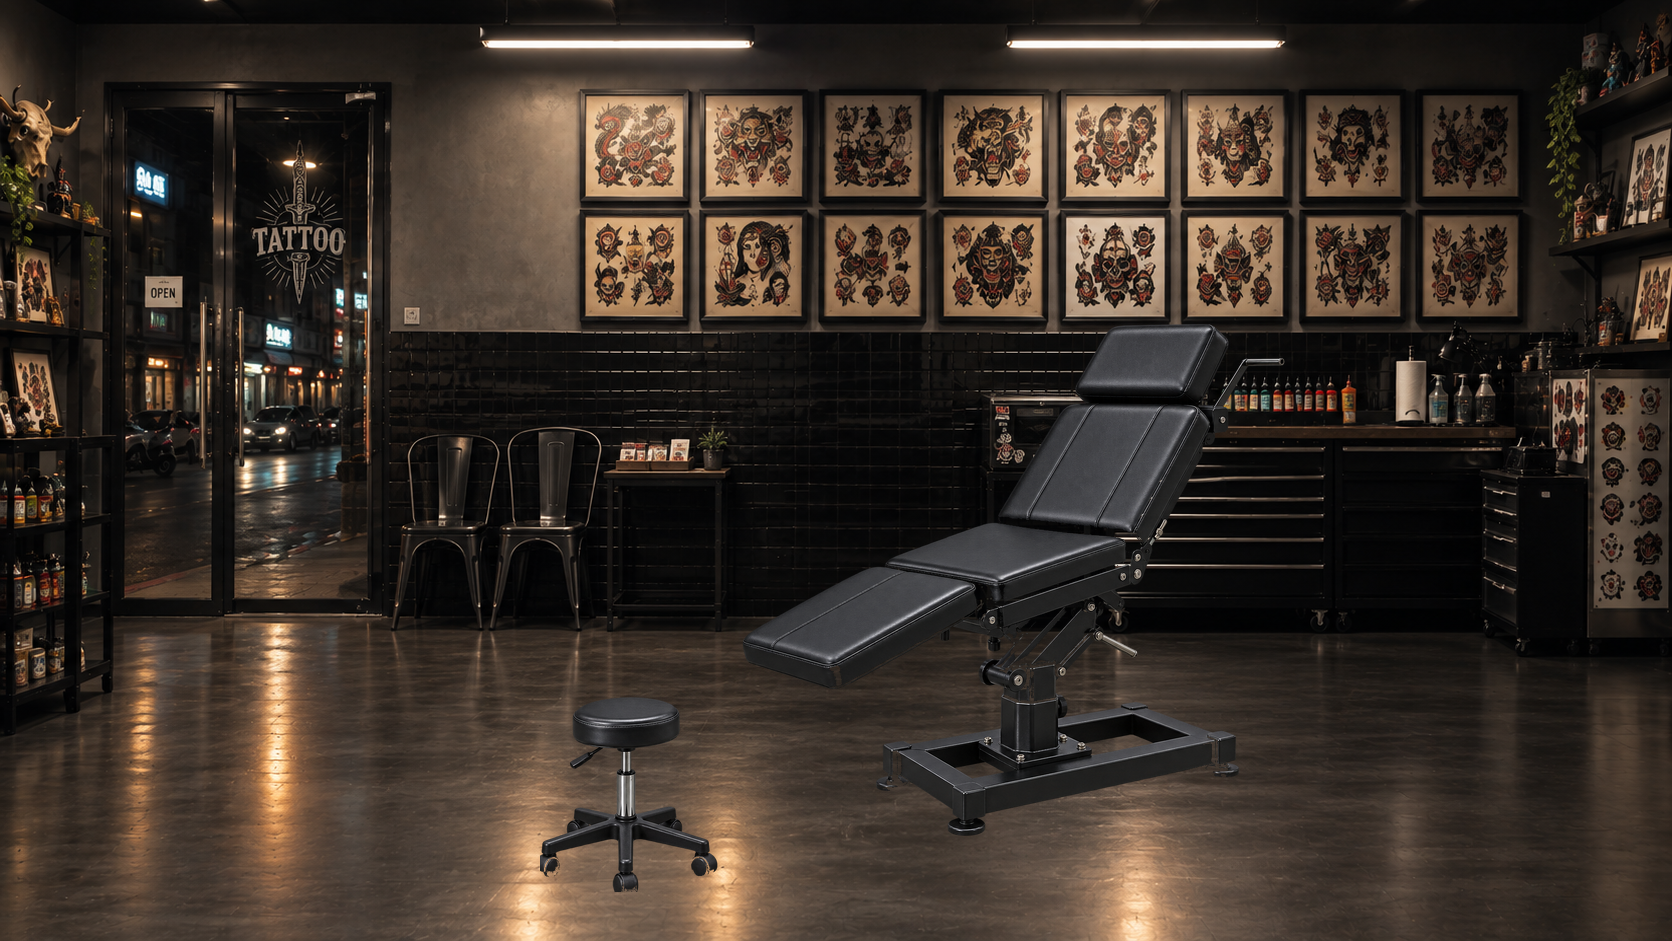
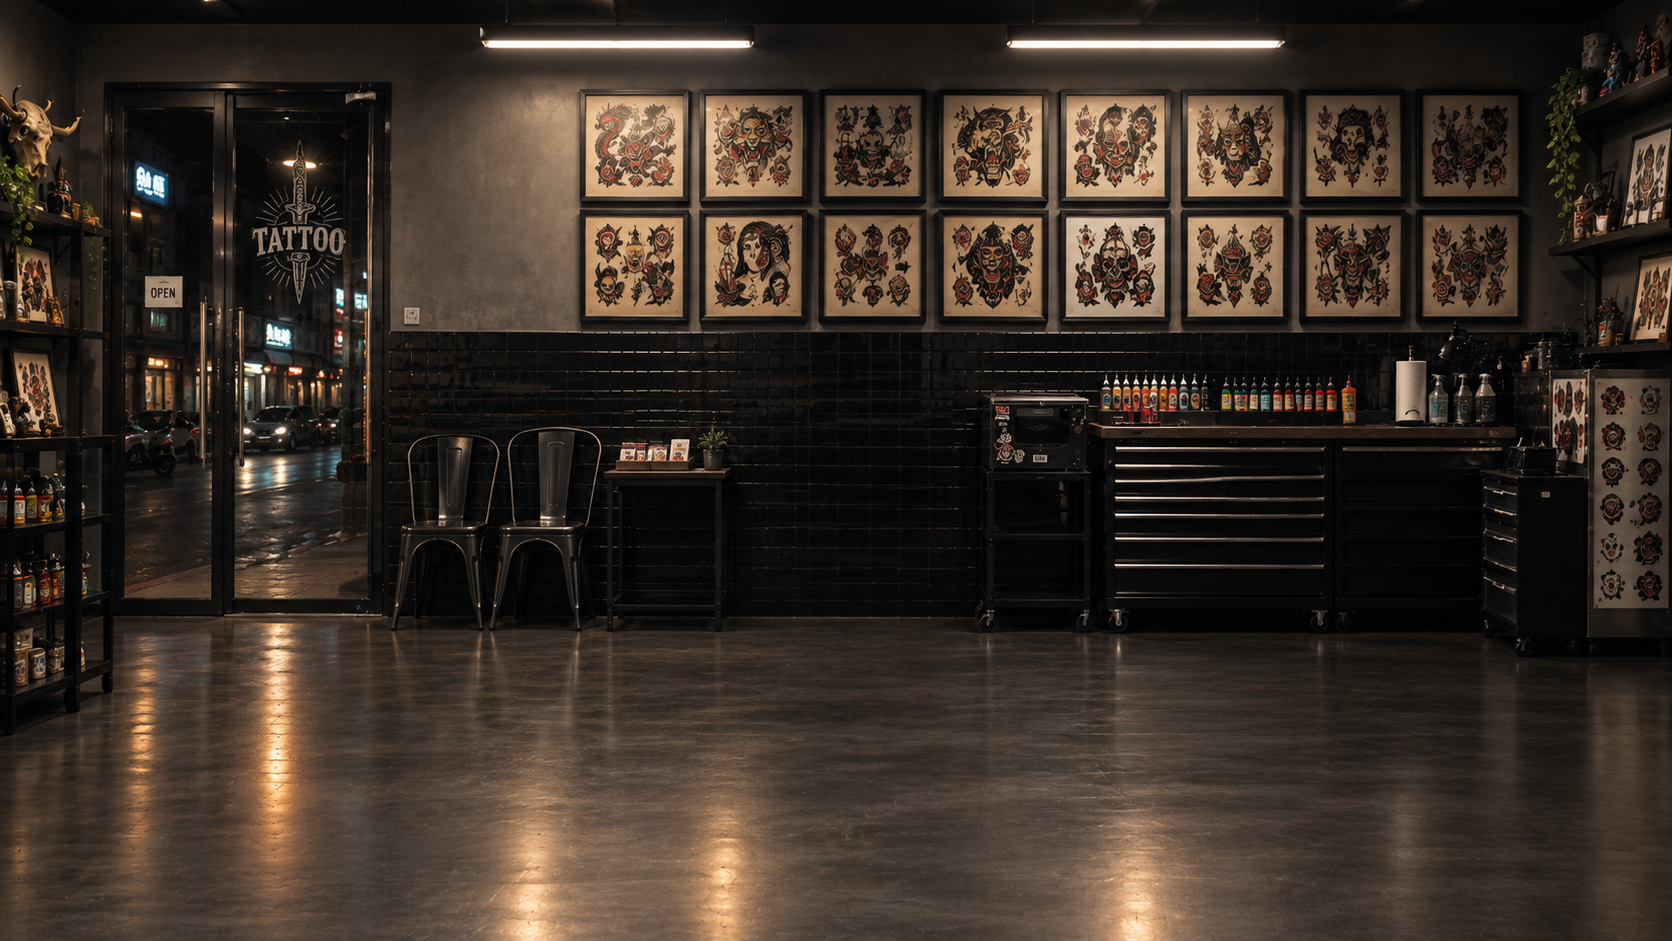
刺青椅/滾輪凳改成獨立疊圖 + 開放滑桿面板調色調
kc:「滑桿開給我 然後我要調整椅子的色調」——推翻上一輪「烤進背景」的
決定,改成跟 mei-desk.png/school-empty-desk.png 同一套做法:椅子/凳子
存成獨立 PNG(assets/bg/tattoo-chair.png、tattoo-stool.png),
TATTOO_CHAIR_TWEAK/TATTOO_STOOL_TWEAK + schoolPropFilter() 即時濾鏡,
tweakTattooPanel()(__dbg.tweakTattoo() 開)照抄 tweakSchoolPanel() 的
寫法,滑桿清單借用現成的 SCHOOL_PROP_ROWS。

tattoo-shop.png 挖回沒疊過家具的乾淨版本。碰撞框沒有跟滑桿連動,已在
註解裡標注這個限制。

瀏覽器裡測過畫面正常、面板正確開出兩組滑桿,console 無錯誤。

Changed region(s): [[0.4354, 0.339, 0.7775, 0.8937], [0.311, 0.7396, 0.4354, 0.9554]]

diff --git a/prototypes/game.html b/prototypes/game.html
@@ -2574,35 +2574,19 @@ const TATTOO_FALLBACK = {
    座標用 `grid.png`(暫存,裁圖疊 100px 格線那招,跟輪盤黑紅核對/校門
    座標當初同一套手法)肉眼讀出來的,換算公式跟其他照片場景一樣
    `logical = native * (640/1672)`。
-   **✅ 補刺青椅(同一天再一輪,kc:「用這個啊」,丟的是稍早那組傢俱參考圖
-   裡右邊那張大圖,躺椅獨照)**——原本這張店面照片沒拍到刺青椅,`chair`
-   判定區踩在空地板上,跟 `SCHOOL_PHOTO` 一開始只接判定區、
-   `school-empty-desk.png` 後來才補上是同一種「先求互動邏輯對,美術分階段
-   補」做法。這輪把那張躺椅獨照裁出來(`tools/black-to-alpha.py` 去背,
-   背景是攝影棚黑底+邊緣柔光暈,不是純黑,邊緣殘留一圈很淡的暈邊,但這張
-   店面照片本身色調也偏暗,實際疊上去幾乎看不出來,不用再處理)、疊圖
-   合成回 `tattoo-shop.png` 裡(用 Python/PIL 一次性合成,不是像
-   `mei-desk.png` 那樣在 game.html 裡用 `MEI_DESK_TWEAK` 那套即時疊圖
-   ——這裡選擇直接烤進背景圖本身,因為刺青椅在照片裡是固定不動的家具,
-   跟小美那種要獨立控制位置/濾鏡的角色疊圖不是同一類東西,烤進背景更
-   簡單,不用多開一組 TWEAK 面板)。位置抓在門口小桌(x0~730)跟工具檯
-   (x740~1490)中間那段空地,跟 `chair` 判定區(邏輯座標 x:287~414,
-   換算回照片原生座標 x:749~1081)大致對得上,沒有精算到像素對齊——跟
-   這個專案疊圖位置「先抓大概,kc 玩起來覺得不對再調」的一貫做法一樣。
-   沒有補碰撞框——`WALK_N` 本身就擋住往牆裡走,這張照片沒有像灰模版那樣
-   有一個實際畫出來的家具形狀需要擋,躺椅是烤進背景的靜態圖,角色一律
-   蓋在它上面(跟 bedroom 床/書桌那批背景家具同一個既有簡化,不是這輪
-   新增的妥協)。
-   **✅ 同一天再一輪,kc:「其他椅子呢 還有小凳子 那些」**——問的是同一張
-   傢俱參考圖裡另外兩張(等候椅/滾輪凳)。查過一輪:等候椅這張照片裡
-   本來就有真的實拍(門口那兩張黑色金屬框椅,款式/顏色跟參考圖那張幾乎
-   一樣,見下面 `wait` 判定區),不用再疊——參考圖那張本來就是同一種
-   Tolix 風格金屬椅,只是換一張角度拍,疊上去看不出差別,沒有意義。
-   `滾輪凳`(師傅的椅子)這張照片真的沒有拍到,補法跟刺青椅同一套
-   (裁出來→`black-to-alpha.py` 去背→合成烤進 `tattoo-shop.png`),位置
-   放在刺青椅腳靠前緣那片開放地板(避開椅子腳靠本體跟液壓底座),不是
-   隨便塞——那塊剛好是這張照片裡少數留白夠大、不會跟其他家具打架的
-   地方。 */
+   **✅ 補刺青椅+滾輪凳(kc 陸續丟同一張傢俱參考圖要求補齊,見下面
+   `tattooChairImg`/`tattooStoolImg` 那則筆記)**——這張店面照片本來沒
+   拍到刺青椅/師傅坐的滾輪凳(等候椅倒是有真的實拍,門口那兩張黑色金屬框
+   椅,Tolix 款式跟參考圖那張幾乎一樣,不用另外疊),`chair` 判定區原本
+   踩在空地板上,跟 `SCHOOL_PHOTO` 一開始只接判定區、`school-empty-desk.
+   png` 後來才補上是同一種「先求互動邏輯對,美術分階段補」做法。
+   **一開始(2026-08-28,第一輪)是直接烤進 `tattoo-shop.png` 背景本身**
+   (Python/PIL 一次性合成),覺得椅子是固定家具不需要獨立控制;
+   **kc 後來要求「滑桿開給我,然後我要調整椅子的色調」,推翻這個決定**
+   ——改成跟 `mei-desk.png`/`school-empty-desk.png` 同一套「獨立疊圖 +
+   `TWEAK` 物件 + `schoolPropFilter()` 即時濾鏡」做法(見下面
+   `TATTOO_CHAIR_TWEAK`/`tweakTattooPanel()`),`tattoo-shop.png` 改回
+   乾淨的原始照片(沒有烤家具進去)。*/
 /* 座標肉眼實測踩過一個坑(2026-08-28):`flash`(圖牆)原本 x:221~592 整條
    都給滿版寬度,結果跟後面 `chair`(x:287~414)/`bench`(x:418~571)的 x
    範圍整段疊在一起——`IN.near` 判定是「陣列裡第一個符合的」,`flash`
@@ -2626,21 +2610,21 @@ const TATTOO_PHOTO = {
   ]
 };
 /* 補碰撞框(2026-08-28,kc:「不要擋在一起 而且要做碰撞」)——刺青椅/
-   滾輪凳現在是烤進背景的靜態圖,之前完全沒有擋人,角色可以直接站進
-   椅子/凳子裡面。座標一樣用格線裁圖肉眼讀(跟 SPOTS 那批同一張
-   `final-grid-check.png`,暫存不進 repo),只框「地板接觸」那個高度帶
-   (椅背/頭枕那種立在半空的部分不用擋,跟灰模版那顆碰撞框同一個原則),
-   不是整個視覺外框。
+   滾輪凳當時是烤進背景的靜態圖,完全不擋人,角色可以直接站進椅子/凳子
+   裡面。座標用格線裁圖肉眼讀(跟 SPOTS 那批同一張 `final-grid-check.
+   png`,暫存不進 repo),只框「地板接觸」那個高度帶(椅背/頭枕那種立在
+   半空的部分不用擋,跟灰模版那顆碰撞框同一個原則),不是整個視覺外框。
    `chair` 那顆的 `pyFront` 卡在 300(不是椅子視覺上實際到底的 302),
    跟上面 SPOTS `chair` 的 `y0:306` 差 6 剛好是 `COLLIDE_PAD`——原因跟
    刺青椅灰模版那次同一個坑:留一條乾淨的緩衝帶,不然判定區跟碰撞區
-   中間會有「站得進去卻被撞退」的死角。代價是椅子基座最前緣那一小截
-   (native y:743~790,換算約 284~302)沒有真的擋到,肉眼看得出來的話
-   之後開滑桿面板時再一起調——kc 提過新場景要有滑桿面板讓他自己調,
-   這輪先求碰撞邏輯對,面板下一輪再開。
-   滾輪凳那顆位置在椅子左邊、跟椅子的 x 範圍完全不重疊,不用跟著切
-   `pyFront`,直接框到視覺下緣(342,略超過 `WALK_S` 一點,無妨,人本來
-   就走不到那麼深)。 */
+   中間會有「站得進去卻被撞退」的死角。滾輪凳那顆位置在椅子左邊、跟椅子
+   的 x 範圍完全不重疊,不用跟著切 `pyFront`,直接框到視覺下緣(342,
+   略超過 `WALK_S` 一點,無妨,人本來就走不到那麼深)。
+   **⚠ 這批數字是照「椅子烤在背景裡」那個固定位置量的**,下面
+   `TATTOO_CHAIR_TWEAK`/`TATTOO_STOOL_TWEAK` 滑桿面板開放之後,kc 拉滑桿
+   移動椅子/凳子的視覺位置**不會**連動改這裡的碰撞框——兩套資料獨立,
+   kc 玩起來如果把椅子拉到肉眼對不上碰撞框的地方,要回頭跟我說一聲再
+   同步調這兩顆數字,不是滑桿自動生效。 */
 const TATTOO_COLLIDERS_PHOTO = [
   { x0:283, x1:463, pyBack:180, pyFront:300 },   // 刺青椅
   { x0:207, x1:278, pyBack:264, pyFront:342 }    // 滾輪凳
@@ -2651,7 +2635,23 @@ tattooShopImg.onload = () => {
   if(tattooShopImg.naturalWidth){ TATTOO = TATTOO_PHOTO; TATTOO_COLLIDERS = TATTOO_COLLIDERS_PHOTO; }
   paintTattooBackdrop();
 };
-tattooShopImg.src = '../assets/bg/tattoo-shop.png?v=4';
+tattooShopImg.src = '../assets/bg/tattoo-shop.png?v=5';
+/* 刺青椅/滾輪凳疊圖(2026-08-28)——kc 丟的傢俱參考圖(躺椅/滾輪凳各一張
+   獨照,攝影棚黑底打光)用 `tools/black-to-alpha.py` 去背,存成
+   `assets/bg/tattoo-chair.png`/`tattoo-stool.png`,畫法/濾鏡機制原封
+   不動照抄 `MEI_DESK_TWEAK`/`schoolPropFilter()` 那套(見那則筆記),
+   不重新發明。裁切窗口用整張圖(去背之後四邊都是透明,`Crop` 直接吃
+   `naturalWidth/Height` 沒有另外裁一次)。
+   `x`/`bottom`/`w` 的初始值是這輪自己換算的(第一版烤進背景時量出來的
+   位置,換算成 1280×720 畫布座標,乘的比例是 1280/1672),不是 kc 拉
+   滑桿定案的——kc 要求開滑桿本身就是因為還沒定案,面板打開後這幾個
+   數字大概率會變,不用當成正式數字看待。 */
+const tattooChairImg = new Image(); tattooChairImg.src = '../assets/bg/tattoo-chair.png?v=1';
+const tattooChairCrop = { x:0, y:0, w:1016, h:1004 };
+const TATTOO_CHAIR_TWEAK = { x:567, bottom:653, w:429, brightness:100, r:100, g:100, b:100 };
+const tattooStoolImg = new Image(); tattooStoolImg.src = '../assets/bg/tattoo-stool.png?v=1';
+const tattooStoolCrop = { x:0, y:0, w:370, h:405 };
+const TATTOO_STOOL_TWEAK = { x:413, bottom:683, w:142, brightness:100, r:100, g:100, b:100 };
 
 /* 遊藝場(2026-08-26,kc:「遊藝場先做,裡面可以玩一些小遊戲,可以加情緒」
    +「真的賭博,情緒一定＋ 金錢賭」)——只有灰模,還沒有照片版(跟 store/
@@ -3147,6 +3147,41 @@ function tweakArcadePanel(){
     rows.forEach(([key]) => {
       const input = document.getElementById(`arctweak_${gi}_${key}`);
       const out = document.getElementById(`arctweak_${gi}_${key}_v`);
+      input.addEventListener('input', () => {
+        obj[key] = +input.value;
+        out.textContent = input.value;
+      });
+    });
+  });
+}
+/* 刺青店滑桿面板(2026-08-28,kc:「滑桿開給我 然後我要調整椅子的色調」)
+   ——跟 tweakSchoolPanel() 同一套寫法,兩組疊圖(刺青椅/滾輪凳)各自
+   x/bottom/w/brightness/r/g/b 七個滑桿,直接沿用 SCHOOL_PROP_ROWS 那份
+   清單(範圍剛好通用,不用為這個場景另開一份)。 */
+function tweakTattooPanel(){
+  const old = document.getElementById('tattooTweakPanel');
+  if(old){ old.remove(); return; }
+  const panel = document.createElement('div');
+  panel.id = 'tattooTweakPanel';
+  panel.style.cssText = 'position:fixed;top:16px;right:16px;z-index:9999;background:#1b202bee;color:#eee;padding:12px 14px;border-radius:8px;font:12px/1.6 sans-serif;width:220px;max-height:90vh;overflow:auto;box-shadow:0 4px 20px #000a';
+  const groups = [
+    ['刺青椅疊圖', TATTOO_CHAIR_TWEAK, SCHOOL_PROP_ROWS],
+    ['滾輪凳疊圖', TATTOO_STOOL_TWEAK, SCHOOL_PROP_ROWS]
+  ];
+  panel.innerHTML = groups.map(([title, obj, rows], gi) =>
+    `<div style="font-weight:bold;margin:${gi?'12px':'0'} 0 6px">${title}</div>` +
+    rows.map(([key,label,min,max]) =>
+      `<div style="margin-bottom:8px">${label}: <span id="tattweak_${gi}_${key}_v">${obj[key]}</span><br>
+       <input type="range" id="tattweak_${gi}_${key}" min="${min}" max="${max}" step="2" value="${obj[key]}" style="width:100%">
+       </div>`
+    ).join('')
+  ).join('') +
+    '<div style="margin-top:4px;opacity:.7">關掉:再打一次 __dbg.tweakTattoo()<br>拉到滿意後跟我說最終數字就好</div>';
+  document.body.appendChild(panel);
+  groups.forEach(([, obj, rows], gi) => {
+    rows.forEach(([key]) => {
+      const input = document.getElementById(`tattweak_${gi}_${key}`);
+      const out = document.getElementById(`tattweak_${gi}_${key}_v`);
       input.addEventListener('input', () => {
         obj[key] = +input.value;
         out.textContent = input.value;
@@ -4894,6 +4929,28 @@ function renderIndoorForeground(){
       g2f.filter = schoolPropFilter(SCHOOL_DESK_TWEAK);
       g2f.drawImage(schoolEmptyDeskImg, schoolEmptyDeskCrop.x,schoolEmptyDeskCrop.y,schoolEmptyDeskCrop.w,schoolEmptyDeskCrop.h,
         SCHOOL_DESK_TWEAK.x, SCHOOL_DESK_TWEAK.bottom-eh, ew, eh);
+      g2f.filter = 'none';
+    }
+  }
+  /* 刺青椅/滾輪凳疊圖(2026-08-28)——跟上面小美座位/主角空位那兩張同一招,
+     每幀都畫、不判斷玩家站哪,c2df 天生蓋過玩家的 3D 頭像那一層。 */
+  if(PLACE === 'tattoo'){
+    if(tattooChairImg.complete && tattooChairImg.naturalWidth){
+      const cw = TATTOO_CHAIR_TWEAK.w, ch = cw * (tattooChairCrop.h/tattooChairCrop.w);
+      g2f.imageSmoothingEnabled = true;
+      drawFloorShadow(g2f, TATTOO_CHAIR_TWEAK.x, TATTOO_CHAIR_TWEAK.bottom, cw);
+      g2f.filter = schoolPropFilter(TATTOO_CHAIR_TWEAK);
+      g2f.drawImage(tattooChairImg, tattooChairCrop.x,tattooChairCrop.y,tattooChairCrop.w,tattooChairCrop.h,
+        TATTOO_CHAIR_TWEAK.x, TATTOO_CHAIR_TWEAK.bottom-ch, cw, ch);
+      g2f.filter = 'none';
+    }
+    if(tattooStoolImg.complete && tattooStoolImg.naturalWidth){
+      const sw = TATTOO_STOOL_TWEAK.w, sh = sw * (tattooStoolCrop.h/tattooStoolCrop.w);
+      g2f.imageSmoothingEnabled = true;
+      drawFloorShadow(g2f, TATTOO_STOOL_TWEAK.x, TATTOO_STOOL_TWEAK.bottom, sw);
+      g2f.filter = schoolPropFilter(TATTOO_STOOL_TWEAK);
+      g2f.drawImage(tattooStoolImg, tattooStoolCrop.x,tattooStoolCrop.y,tattooStoolCrop.w,tattooStoolCrop.h,
+        TATTOO_STOOL_TWEAK.x, TATTOO_STOOL_TWEAK.bottom-sh, sw, sh);
       g2f.filter = 'none';
     }
   }
@@ -7269,6 +7326,7 @@ window.__dbg = {
   BEDROOM_WALK_TWEAK, tweakBedroom: tweakBedroomPanel,
   tweakSchool: tweakSchoolPanel,
   tweakArcade: tweakArcadePanel,
+  tweakTattoo: tweakTattooPanel,
   tweakFortuneStall: tweakFortuneStallPanel,
   tweakPolice: tweakPolicePanel,
   tweakPoliceCar: tweakPoliceCarPanel,
